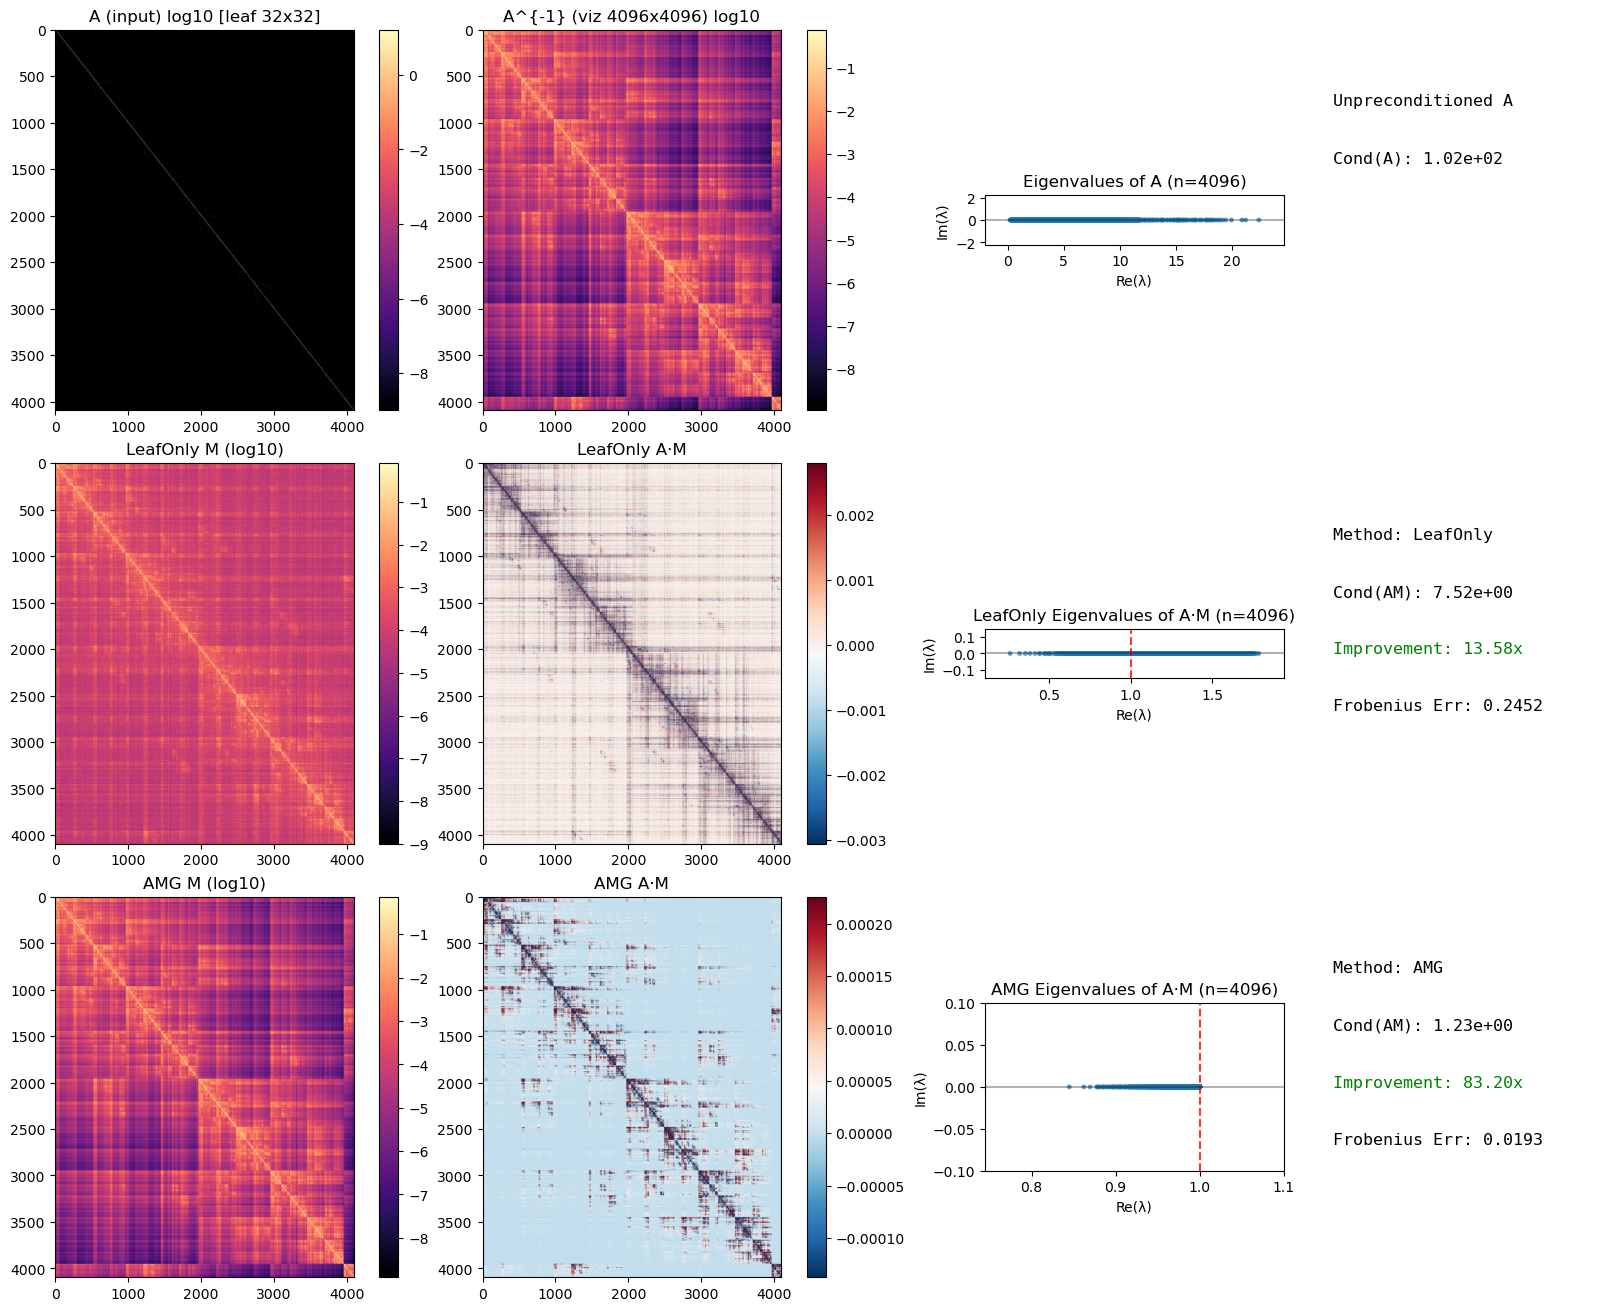
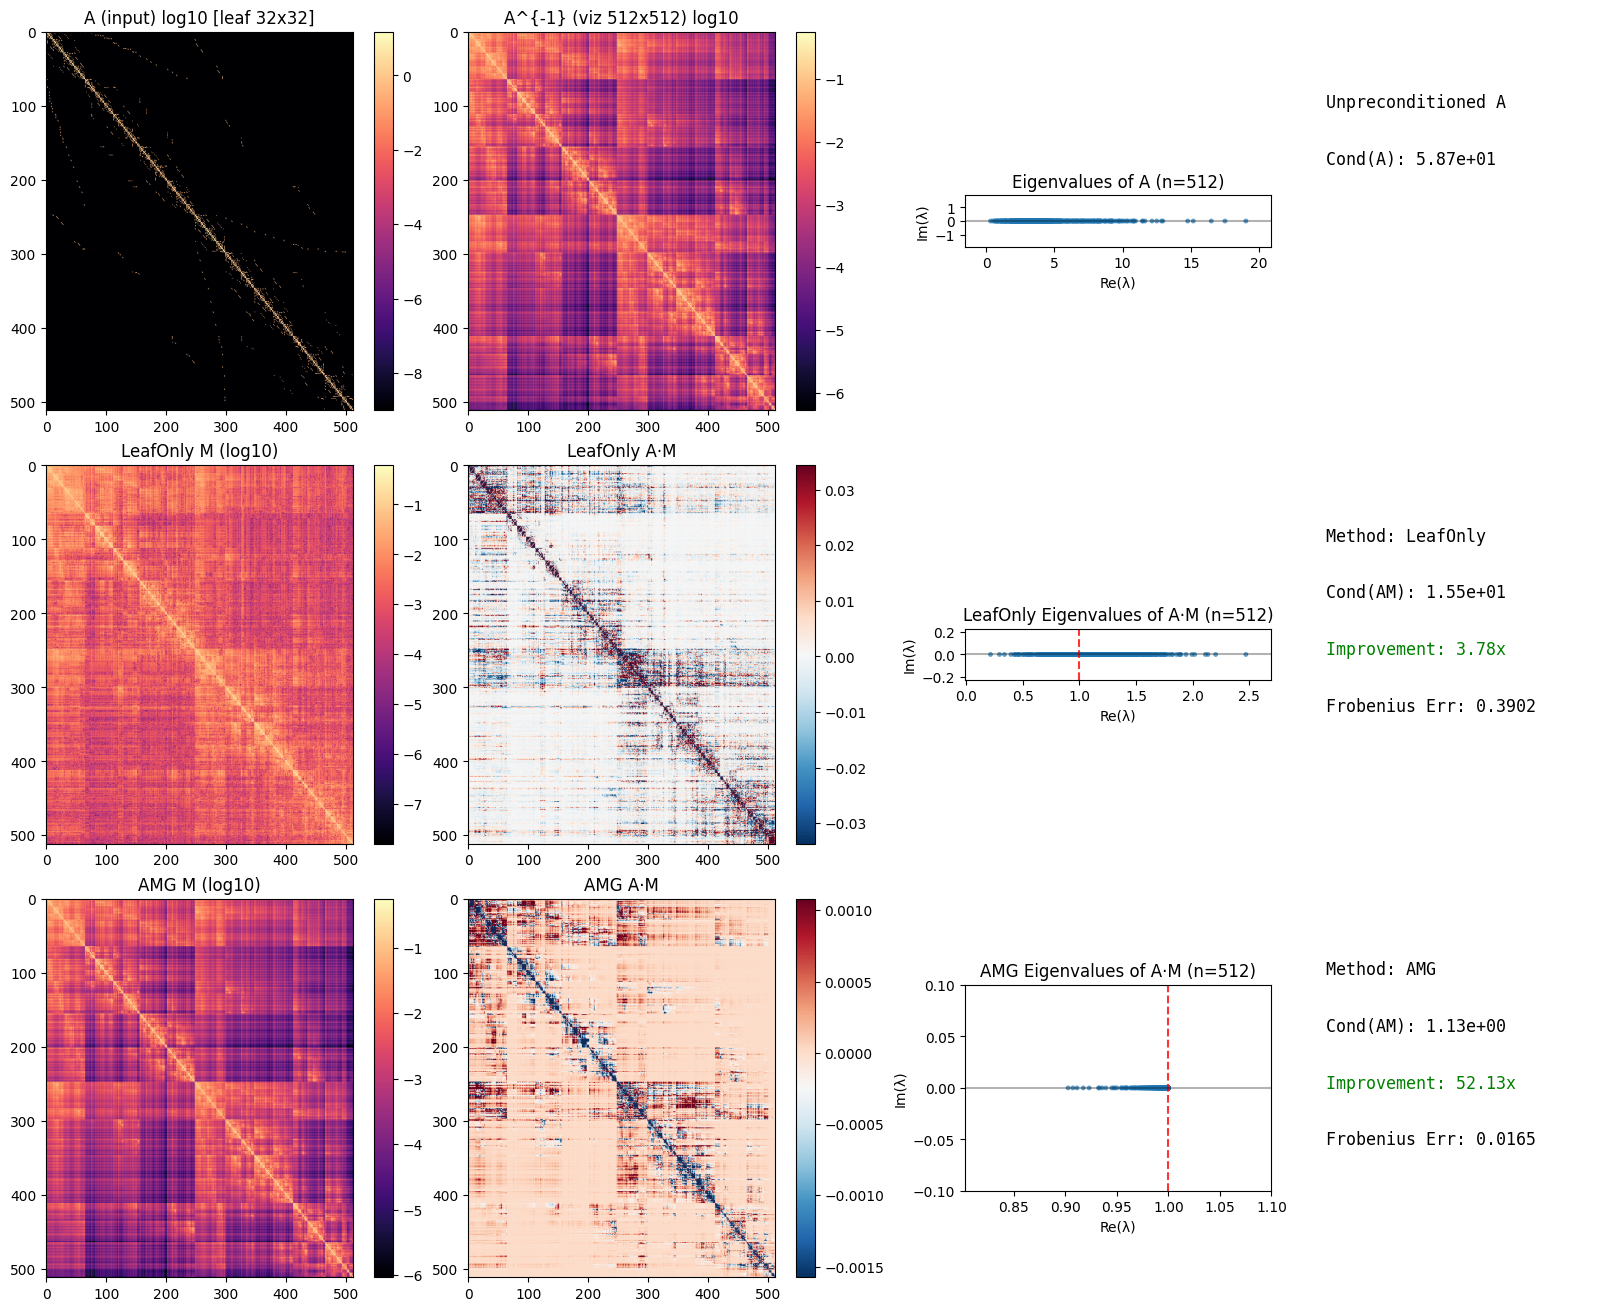
dividing positions by 1024

diff --git a/Assets/Scripts/InspectModel.py b/Assets/Scripts/InspectModel.py
@@ -77,7 +77,7 @@ def get_dense_amg(A_sparse_scipy, viz_limit=200, maxiter=1, tol=1e-6, progress_i
 
 def pcg_gpu(A, b, apply_precond, tol=1e-8, max_iter=500, device=None, debug=False, check_freq=3):
     """
-    Optimized PCG on GPU with accurate CUDA Event timing.
+    Optimized PCG on GPU with accurate CUDA Event timing (CUDA) or wall-clock (MPS).
     Includes initial residual calculation and preconditioning inside the timed block.
     """
     if device is None:
@@ -86,12 +86,16 @@ def pcg_gpu(A, b, apply_precond, tol=1e-8, max_iter=500, device=None, debug=Fals
     n = b.shape[0]
     x = torch.zeros(n, 1, device=device, dtype=b.dtype)
     
-    # 1. Setup CUDA Events for nanosecond-accurate kernel timing
-    start_event = torch.cuda.Event(enable_timing=True)
-    end_event = torch.cuda.Event(enable_timing=True)
-    
-    torch.cuda.synchronize() # Flush pipeline before starting
-    start_event.record()
+    # Timing: CUDA Events on CUDA, wall-clock on MPS/CPU
+    if device.type == "cuda":
+        start_event = torch.cuda.Event(enable_timing=True)
+        end_event = torch.cuda.Event(enable_timing=True)
+        torch.cuda.synchronize()
+        start_event.record()
+    else:
+        if device.type == "mps":
+            torch.mps.synchronize()
+        t0 = time.perf_counter()
 
     # Initial setup is now correctly timed
     r = b - (A @ x.squeeze(-1)).unsqueeze(-1)
@@ -130,10 +134,14 @@ def pcg_gpu(A, b, apply_precond, tol=1e-8, max_iter=500, device=None, debug=Fals
         if iters == 0:
             iters = max_iter
 
-    end_event.record()
-    torch.cuda.synchronize() # Wait for all kernels to finish
-    
-    wall_ms = start_event.elapsed_time(end_event)
+    if device.type == "cuda":
+        end_event.record()
+        torch.cuda.synchronize()
+        wall_ms = start_event.elapsed_time(end_event)
+    else:
+        if device.type == "mps":
+            torch.mps.synchronize()
+        wall_ms = (time.perf_counter() - t0) * 1000
     return x, iters, wall_ms
 
 
@@ -315,7 +323,7 @@ def main():
     print(f"System N={num_nodes_real}")
 
     # n_requested = min(VIEW_SIZE, num_nodes_real)
-    n_requested = 4096
+    n_requested = 512
     n_pad = next_valid_size(n_requested, LEAF_SIZE)
     if n_pad != n_requested:
         print(f"  Padding view: {n_requested} nodes -> {n_pad} (power-of-2 * {LEAF_SIZE})")
@@ -429,14 +437,17 @@ def main():
     b_np = b_np / (np.linalg.norm(b_np) + 1e-12)
     b_np = b_np.reshape(-1, 1)
 
-    # Ensure A_gpu is an actual sparse CSR tensor so PyTorch uses cuSPARSE
+    # On CUDA use sparse CSR (cuSPARSE); MPS does not support sparse_csr_tensor so use dense
     A_scipy_csr = csr_matrix(A_viz_n.astype(np.float32))
-    A_gpu = torch.sparse_csr_tensor(
-        torch.tensor(A_scipy_csr.indptr, dtype=torch.int32, device=device),
-        torch.tensor(A_scipy_csr.indices, dtype=torch.int32, device=device),
-        torch.tensor(A_scipy_csr.data, dtype=torch.float32, device=device),
-        size=(viz_n, viz_n)
-    )
+    if device.type == "cuda":
+        A_gpu = torch.sparse_csr_tensor(
+            torch.tensor(A_scipy_csr.indptr, dtype=torch.int32, device=device),
+            torch.tensor(A_scipy_csr.indices, dtype=torch.int32, device=device),
+            torch.tensor(A_scipy_csr.data, dtype=torch.float32, device=device),
+            size=(viz_n, viz_n),
+        )
+    else:
+        A_gpu = torch.from_numpy(A_viz_n.astype(np.float32)).to(device)
     b_gpu = torch.from_numpy(b_np).float().to(device)
 
     # Unpreconditioned (CG): identity preconditioner

diff --git a/Assets/Scripts/LeafOnly.py b/Assets/Scripts/LeafOnly.py
@@ -70,9 +70,8 @@ class FluidGraphDataset:
             if r == c:
                 diag_map[r] = v
 
-        pos_scale = float(np.abs(positions).max())
-        if pos_scale <= 0.0: pos_scale = 1.0
-        positions_n = positions / pos_scale
+        # Fixed scale for positions (preserves physical scale invariance across frames)
+        positions_n = positions / 1024.0
 
         layer_val = np.exp2(layer)
 
@@ -1038,8 +1037,8 @@ def train_leaf_only():
     target_sizes = []
     if args.mixed_sizes:
         print("  [startup] Mixed sizes enabled. Building discrete sub-graph cache...")
-        MIN_MIXED_SIZE = 4096   # Min size (inclusive)
-        MAX_MIXED_SIZE = 4096  # Max size (inclusive); lower to keep training steps fast
+        MIN_MIXED_SIZE = 512   # Min size (inclusive)
+        MAX_MIXED_SIZE = 512  # Max size (inclusive); lower to keep training steps fast
         base_sizes = [128, 256, 512, 1024, 2048, 4096, 8192]
         for s in base_sizes:
             if MIN_MIXED_SIZE <= s <= MAX_MIXED_SIZE and s < num_nodes_real:
